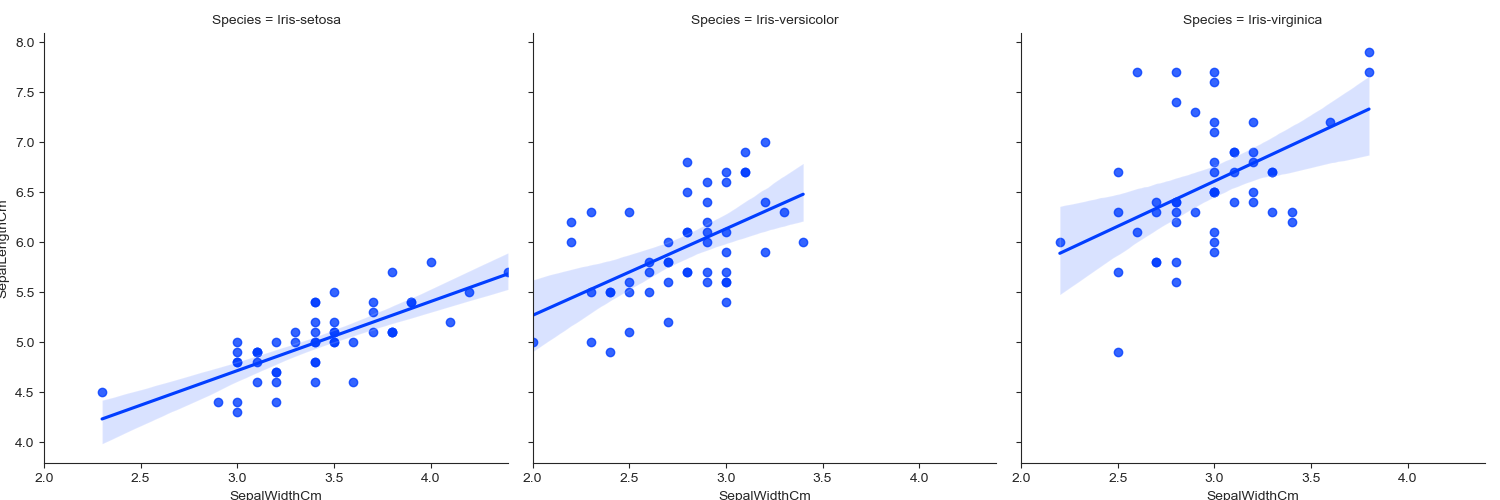
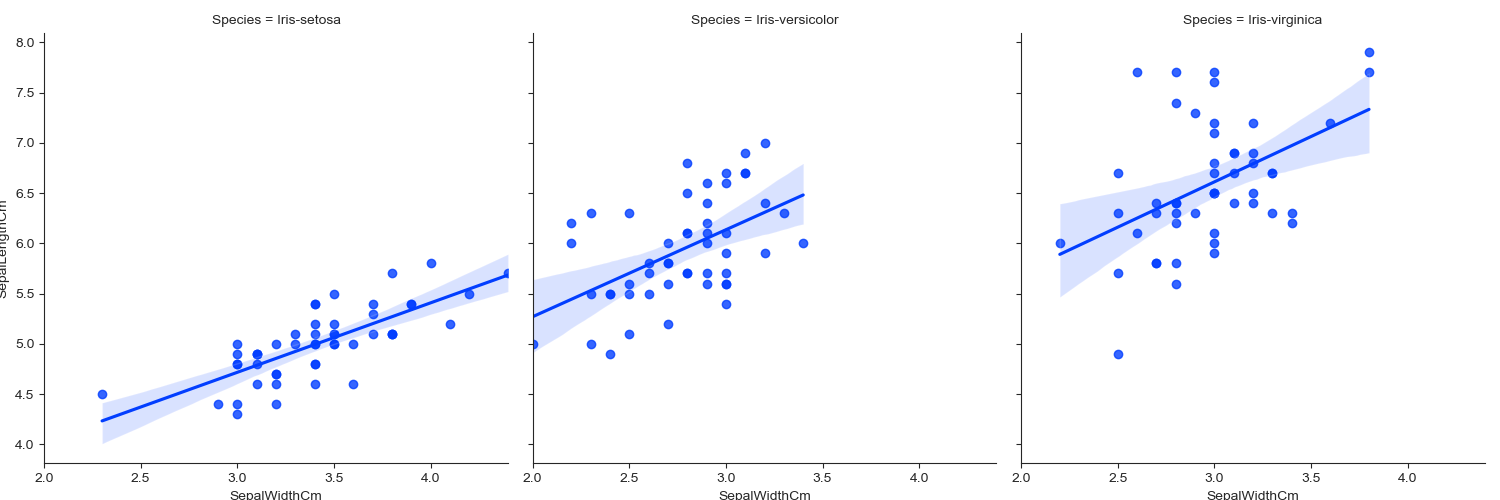
Graphs

diff --git a/trial.py b/trial.py
@@ -1,0 +1,41 @@
+# Author Veronica Curry
+# Student ID: G00074924
+# Completed: April 2021
+
+# Outputting the data from the Fisher Iris Dataset to Graphs - Examples
+
+
+import numpy as np                                          # Inport NumPy
+import pandas as pd                                         # Import Pandas
+import matplotlib.pyplot as plt                             # Import Matplotlib 
+import seaborn as sns                                       # Import Seaborn
+
+file = 'kaggleIrisSet.csv'                                  # Set the CSV as a variable                          
+df = pd.read_csv(file)                                      # create a dataframe from this file - pandas read CSV
+
+sns.set_style('ticks')                                      # set seaborn background
+sns.set_palette("bright")                                   # set seaborn color palette
+
+
+#sns.displot(df["SepalWidthCm"], bins=16, palette=("husl"))        
+#plt.show()
+#plt.savefig("Distplot.png") 
+
+
+# Scatterplots of Variables
+plt.figure()                                                                                              # plot figure size
+plt.subplot(2,2,1)                                                                                                       # subplot - 2 * 2 - plot 1
+sns.displot(df["SepalWidthCm"], bins=8, palette=("husl"))        # Seaborn Scatterplot - ( set X axis / set Y axis ), Data from Iris File, Hue - Species, include a legend, Palette - set color
+plt.subplot(2,2,2)                                                                                                       # subplot - 2 * 2 - plot 2
+sns.displot(df["SepalWidthCm"], bins=8, palette=("husl"))      # Seaborn Scatterplot - ( set X axis / set Y axis ), Data from Iris File, Hue - Species, include a legend, Palette - set colo
+plt.subplot(2,2,3)                                                                                                       # subplot - 2 * 2 - plot 3
+sns.displot(df["PetalLengthCm"], bins=8, palette=("husl"))     # Seaborn Scatterplot - ( set X axis / set Y axis ), Data from Iris File, Hue - Species, include a legend, Palette - set colo
+plt.subplot(2,2,4)                                                                                                       # subplot - 2 * 2 - plot 4
+sns.displot(df["PetalWidthCm"], bins=8, palette=("husl")) # Seaborn Scatterplot - ( set X axis / set Y axis ), Data from Iris File, Hue - Species, include a legend, Palette - set colo
+plt.suptitle("Fisher's Iris Dataset", size=20)                                                                           # Set over all plot title - Size 20
+plt.tight_layout()                                                                                                       # Crop output
+#plt.show()                                                                                                              # Show plot 
+plt.savefig("trial.png")                                                                                          # Create file and save to file "Voilinplot"
+
+
+

diff --git a/exampleGraphs.py b/exampleGraphs.py
@@ -66,30 +66,24 @@ plt.savefig("catplot.png")                                                      
 
 
 # Implot
-sns.lmplot(x="SepalWidthCm", y="SepalLengthCm",col="Species", data=df, palette=("husl"), legend=True)   # Seaborn - jointplot ( set X axis / set Y axis ), Data from Iris File, Palette (color code)
+sns.lmplot(x="SepalWidthCm", y="SepalLengthCm",col="Species", data=df, palette=("husl"))   # Seaborn - jointplot ( set X axis / set Y axis ), Data from Iris File, Palette (color code)
 #plt.show()                                                                                # Show plot 
 plt.savefig("Implot.png")                                                                  # Create file and save to file "implot"
 
 
-sns.lmplot(x="PetalWidthCm", y="PetalLengthCm",col="Species", data=df, palette=("husl"), legend=True)   # Seaborn - jointplot ( set X axis / set Y axis ), Data from Iris File, Palette (color code)
+sns.lmplot(x="PetalWidthCm", y="PetalLengthCm",col="Species", data=df, palette=("husl"))   # Seaborn - jointplot ( set X axis / set Y axis ), Data from Iris File, Palette (color code)
 #plt.show()                                                                                # Show plot 
 plt.savefig("Implot2.png")                                                                 # Create file and save to file "implot2"
 
 
-sns.displot(df["SepalWidthCm"], bins=16, palette=("husl"))
-#plt.show()
-plt.savefig("Distplot.png") 
+sns.displot(df["SepalWidthCm"], bins=16, palette=("husl"))             # Seaborn - distrubution plot ( choose one variable, 16 bins along the axis, color palette)              
+#plt.show()                                                            # Show plot 
+plt.savefig("Distplot.png")                                            # Create file and save to file "Distplot"
 
 
-sns.pairplot( df,hue='Species',height=3,vars=['SepalWidthCm','SepalLengthCm','PetalLengthCm','PetalWidthCm'],kind='scatter', palette=("husl")) 
-#plt.show()
-plt.savefig("pairplot.png") 
-
-
-#pairplot1 = sns.pairplot(df,hue="Species", palette=("husl"), height=1.5, plot_kws={'alpha':0.6})     
-#plt.show()
-
-
+sns.pairplot( df,hue='Species',height=3,vars=['SepalWidthCm','SepalLengthCm','PetalLengthCm','PetalWidthCm'],kind='scatter', palette=("husl")) # Seaborn - distrubution plot ( choose one variable, 16 bins along the axis, color palette) 
+#plt.show()                                                                                                                                    # Show plot
+plt.savefig("pairplot.png")                                                                                                                    # Create file and save to file "Pairplot"
 
 
 hisplot1 = sns.histplot(df["SepalWidthCm"], bins=16, palette=("husl"))

diff --git a/histogram.py b/histogram.py
@@ -1,0 +1,30 @@
+
+# Provide a summary of each variable in a single txt file
+# Save a historgram of each variable in a PNG file
+# Sets outputs of a scatterplot of each pair of variables
+
+
+import numpy as np                               # Import Modules  - NumPy
+import pandas as pd                              # Import Modules  - Pandas
+import matplotlib.pyplot as plt                  # Import Modules  - Matplotlib
+import seaborn as sns                            # Import Modules  - Seaborn
+
+
+filename = 'kaggleIrisSet.csv'                      # Import File
+df = pd.read_csv(filename)                          # Set variable for file - Pandas - read the CSV file
+
+
+
+sns.FacetGrid(df, hue="type", height=3).map(sns.distplot,"PetalLengthCm").add_legend()
+sns.FacetGrid(df, hue="type", height=3).map(sns.distplot,"PetalWidthCm").add_legend()
+sns.FacetGrid(df, hue="type", height=3).map(sns.distplot,"SepalLengthCm").add_legend()
+sns.FacetGrid(df, hue="type", height=3).map(sns.distplot,"SepalWidthCm").add_legend()
+plt.show()
+
+
+
+
+
+#isplot1 = sns.histplot(df["SepalWidthCm"], bins=16, palette=("husl"))
+#plt.show()
+#plt.savefig("Hisplot2.png") 
